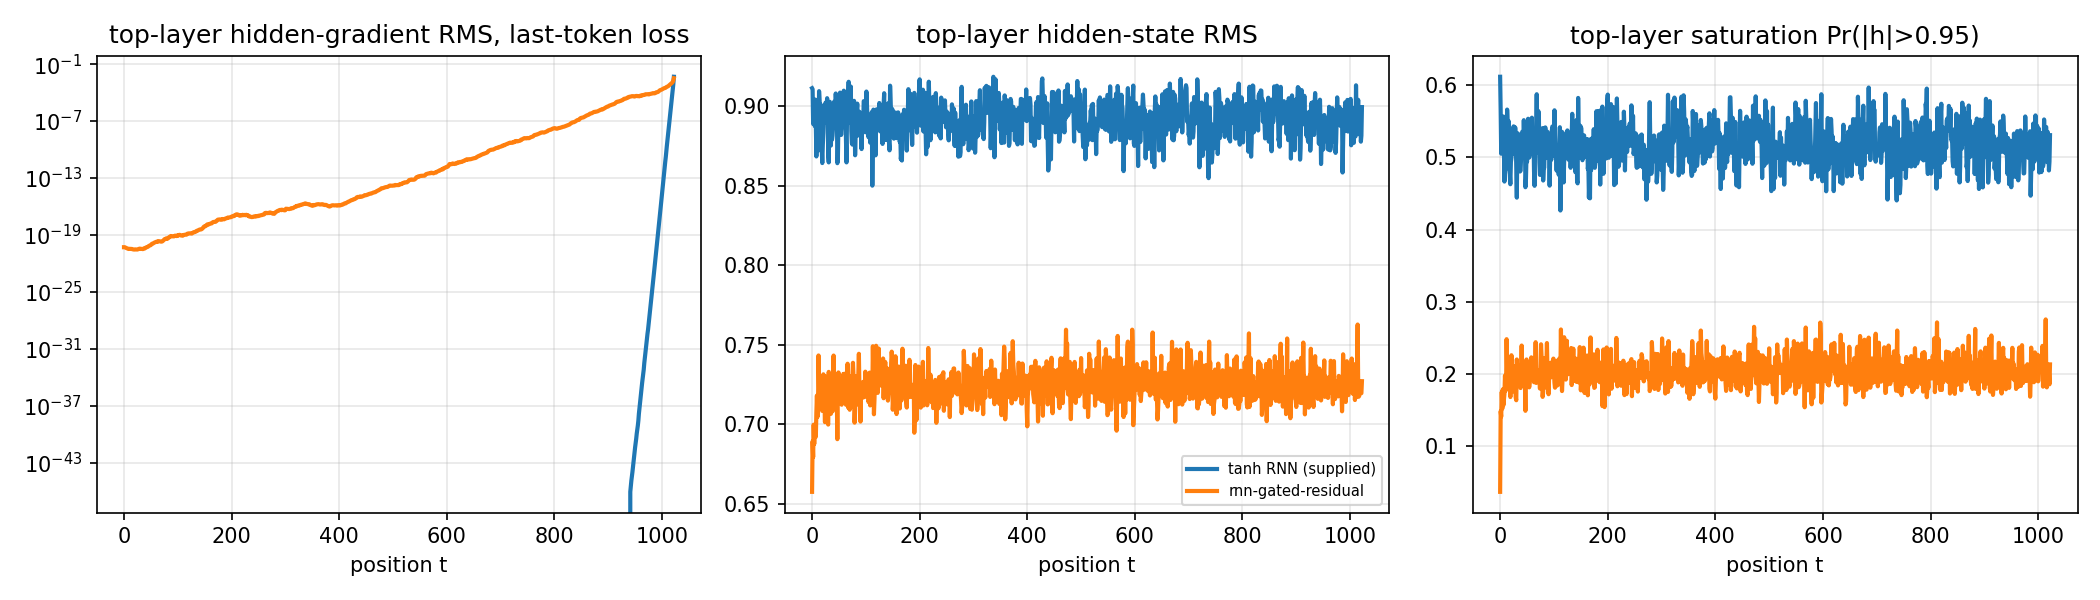
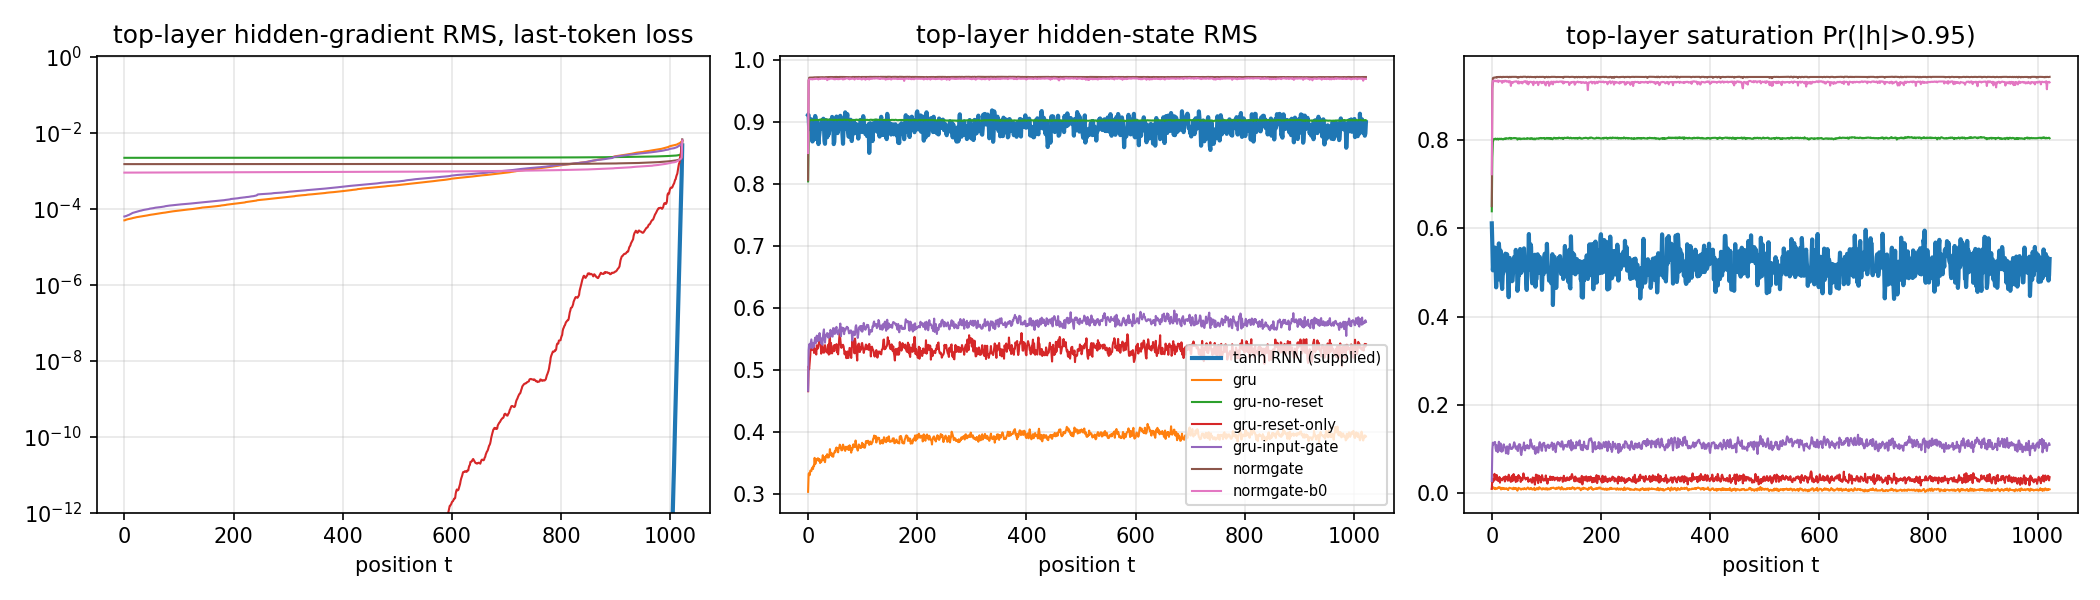
A4 P4(c): temporal diagnostics on own GRU/NormGate checkpoints (eager probes via TORCHDYNAMO_DISABLE)

diff --git a/experiments/a4_stability/latex/p4_body.tex b/experiments/a4_stability/latex/p4_body.tex
@@ -26,11 +26,37 @@ Three ablations at lr 0.003, each removing one piece of the GRU (Table~\ref{tab:
 Reading the table: the keep path $(1-z_t)\odot h_{t-1}$ is the big piece (removing it costs 0.22), the reset gate is the smaller piece (0.10), and they are not independent, since the sum of the two costs (0.32) is about the whole GRU-minus-tanh gap (0.33). The order matches my prediction; the size of the reset-gate cost does not. I expected reset-only to be within 0.05 of tanh, and it is 0.11 better, so a gate that only decides how much of the old state the candidate may read already buys a third of the GRU's gain. The reason, in hindsight: the tanh cell's problem is not just that it overwrites $h$, it is that the recurrent input $Uh_{t-1}$ is whatever scale $h$ happens to have, so the candidate saturates (Problem 2 measured 52\% of top-layer units at $|h|>0.95$). A reset gate can shrink that input to zero whenever it would saturate; the keep path cannot do that by itself.
 
 
-\paragraph{(c) Diagnostics.} %P4DIAG%
+\paragraph{(c) Diagnostics.} Table~\ref{tab:p4diag} and Figure~\ref{fig:p4time} are the same three probes as in Problem 2 (FP32, gradients on, 8 validation sequences, final checkpoints at lr 0.003): how far back the last-token gradient reaches (steps back until it falls to $10^{-3}$ of its value at the last position), the hidden-state RMS, and the fraction of saturated units $\Pr(|h|>0.95)$.
+
+\begin{table}[H]\centering\small
+\caption{P4 temporal diagnostics on the final checkpoints (lr 0.003). Reach is per layer (bottom to top); a reach of 1023 means the gradient never fell below $10^{-3}$ of its final value anywhere in the 1024-token window. Saturation is the mean over positions of $\Pr(|h|>0.95)$, per layer.}\label{tab:p4diag}
+\begin{tabular}{lrll}\toprule
+cell & loss & last-token gradient reach & saturation \\\midrule
+modern tanh RNN (supplied) & 3.516 & [156, 158, 10, 6] & [0.15, 0.26, 0.68, 0.52] \\
+GRU & 3.187 & [407, 1023, 1023, 1023] & [0.00, 0.01, 0.01, 0.01] \\
+GRU, no reset gate & 3.285 & [524, 1023, 1023, 1023] & [0.00, 0.11, 0.69, 0.80] \\
+GRU, reset gate only & 3.404 & [164, 217, 214, 109] & [0.16, 0.00, 0.01, 0.03] \\
+GRU, input-only update gate & 3.220 & [473, 1023, 1023, 1023] & [0.00, 0.02, 0.08, 0.11] \\
+NormGate (ours) & 3.377 & [1023, 1023, 1023, 1023] & [0.18, 0.83, 0.94, 0.94] \\
+NormGate, zero update bias & 3.353 & [1023, 1023, 1023, 1023] & [0.11, 0.75, 0.94, 0.93] \\
+\bottomrule\end{tabular}\end{table}
+
+\begin{figure}[H]\centering
+\includegraphics[width=\textwidth]{p4_time.png}
+\caption{Top-layer temporal diagnostics vs.\ position for the P4 cells (final checkpoints, lr 0.003). Left: hidden-gradient RMS from the last-token loss (log scale; a flat line means the gradient reaches the whole window). Middle: hidden-state RMS. Right: saturation $\Pr(|h|>0.95)$.}\label{fig:p4time}
+\end{figure}
+
+Three things the table says, in order of how much they surprised me.
+
+\textbf{The update gate fixes gradient reach completely.} Every cell with a keep path $(1-z_t)\odot h_{t-1}$ (GRU, no-reset, input-only, both NormGates) has a flat last-token gradient across the entire 1024-token window in layers 2--4: the gradient simply never decays (Figure~\ref{fig:p4time}, left). The tanh RNN's reach was 6--10 steps in the top two layers. This is the ``highway through time'' that the gate provides: with $z_t$ small, $\partial h_t/\partial h_{t-1}\approx(1-z_t)\,I$, so the Jacobian product does not shrink. The reset-only cell, which has no keep path, is the exception: reach 109--217, and its gradient falls off even faster than the tanh RNN's (it is overwriting the state every step, so credit cannot travel). Yet reset-only still beats tanh by 0.11, so reach is not the only thing that matters.
+
+\textbf{The GRU keeps its state small and unsaturated; the tanh RNN cannot.} The GRU's top-layer hidden RMS is 0.40 with 1\% of units saturated, versus 0.90 and 52\% for the tanh RNN. The reset gate is what buys this: remove it (no-reset) and the top two layers saturate to 69--80\%, with RMS back at 0.90, and the loss gives up 0.10. The reset gate's job in this model is to stop the candidate from feeding the full old state back into the $\tanh$, which is exactly the positive-feedback loop that drives a plain tanh RNN to $\pm1$. This is why my prediction in (b) that the reset gate would be the cheap part was wrong: it is the anti-saturation mechanism, and saturation is the modern RNN's main disease (Problem 2).
+
+\textbf{Gradient reach and useful information are different things.} NormGate has the longest reach in the table (1023 in every layer) and still loses to the GRU by 0.19, because 94\% of its top-layer units sit at $|h|>0.95$: the state is a near-binary vector. Normalizing to unit RMS before the candidate makes the candidate's $\tanh$ receive $O(1)$ inputs every step, so it saturates, and the gate then faithfully carries a saturated state forward with perfect gradient flow. A gradient that reaches 1000 steps back through a state that can only hold a sign per unit is not worth much. The GRU's recipe, small state with the resolution of a float, is the better one; the reset-only cell, which has short reach but low saturation (3\%), is the mirror image, and it beats NormGate by only 0.03 despite a 10$\times$ shorter reach. Reach is necessary for long-range credit; it is not sufficient for a good state.
 
 \paragraph{(d) My update: NormGate.} Design, fixed before training: keep the GRU's update gate, drop the reset gate (per (b) it should be the cheap part), normalize the state before it enters the candidate, and bias the gate towards keeping:
 \[ h_t = (1-z_t)\odot h_{t-1} + z_t\odot\tanh\big(W x_t + U\,\mathrm{RMSNorm}(h_{t-1}) + b\big),\qquad z_t=\sigma(W_z x_t+U_z h_{t-1} - 1). \]
 The RMSNorm attacks the saturation problem directly: the candidate's recurrent input has unit scale no matter how large $h$ has grown, so $\tanh$ stays in its linear range longer. The $-1$ bias starts every channel at $z\approx 0.27$ (keep 73\%), the usual trick for long memory at initialization. A control with the bias at 0 separates the two ideas. Still only $h$ crosses time steps.
-\textbf{Result: NormGate reaches 3.376 at both lr 0.0015 and 0.003 (Table~\ref{tab:p4}), 0.14 better than the tanh RNN and 0.19 worse than the GRU.} My prediction (within 0.02 of the GRU) was wrong by an order of magnitude. The bias control settles where the damage came from: with a zero update-gate bias the same cell gets 3.353, so the ``start by keeping'' bias cost 0.023 rather than helping, and the remaining 0.17 gap to the GRU is the normalization itself.
+\textbf{Result: NormGate reaches 3.376 at both lr 0.0015 and 0.003 (Table~\ref{tab:p4}), 0.14 better than the tanh RNN and 0.19 worse than the GRU.} My prediction (within 0.02 of the GRU) was wrong by an order of magnitude. The bias control settles where the damage came from: with a zero update-gate bias the same cell gets 3.353, so the ``start by keeping'' bias cost 0.023 rather than helping, and the remaining 0.17 gap to the GRU is the normalization itself. The diagnostics in (c) show what the normalization did: it saturated 94\% of the top-layer units, so the cell had perfect gradient reach into a state that had lost its resolution.
 
 Why normalizing the state hurts, given that saturation was the diagnosed problem: RMSNorm removes the state's \emph{scale}, and the scale is information. In a GRU, a unit that has been written many times without being overwritten grows in magnitude and saturates the candidate's $\tanh$, which effectively freezes it; that is a crude but useful ``this slot is full'' signal. NormGate rescales every slot to unit RMS before the candidate reads it, so a slot that holds a confident, long-lived value looks the same as one holding noise, and the candidate cannot tell which to protect. The no-reset GRU (3.285), which also lacks the reset path but keeps the raw state, is 0.09 better than NormGate: the normalization alone costs about that much. The flat lr response (identical losses at 0.0015 and 0.003) is the one thing the normalization did buy: a wider stable learning-rate range, bought at a price in loss.

diff --git a/experiments/a4_stability/measure_own.py b/experiments/a4_stability/measure_own.py
@@ -27,7 +27,7 @@ if __name__ == '__main__':
     from .diagnostics import save
     jobs = [job(r) for r in sys.argv[1:]]
     print(len(jobs), 'runs:', [j[0] for j in jobs])
-    probe = app.function(image=build_image(), volumes=VOLUME_MOUNTS, gpu=os.environ.get('A4_MEASURE_GPU', 'H100'), timeout=3*3600)(measure_runs)
+    probe = app.function(image=build_image(), volumes=VOLUME_MOUNTS, gpu=os.environ.get('A4_MEASURE_GPU', 'H100'), timeout=3*3600, secrets=[modal.Secret.from_dict({'TORCHDYNAMO_DISABLE': '1'})])(measure_runs)
     with modal.enable_output(), app.run(environment_name=MODAL_ENVIRONMENT):
         results = probe.remote(jobs, str(OWN_ROOT), early='step_100.pt')
     for run, stages in results.items():

diff --git a/experiments/a4_stability/measure_supplied.py b/experiments/a4_stability/measure_supplied.py
@@ -49,6 +49,8 @@ def measure_runs(jobs, root=REFERENCE_ROOT, device='cuda', batch=8, early='early
 
     from experiments.a4_stability import _runtime
     _runtime.DISABLE_COMPILE = True
+    import torch._dynamo
+    torch._dynamo.config.disable = True  # probes run eagerly; compiled GRU cells hit the recompile limit under hooks
     from data import dclm_val_dataset, load_token_dataset
     from experiments.a4_stability.sweeps import config
     from model_io import load_model
